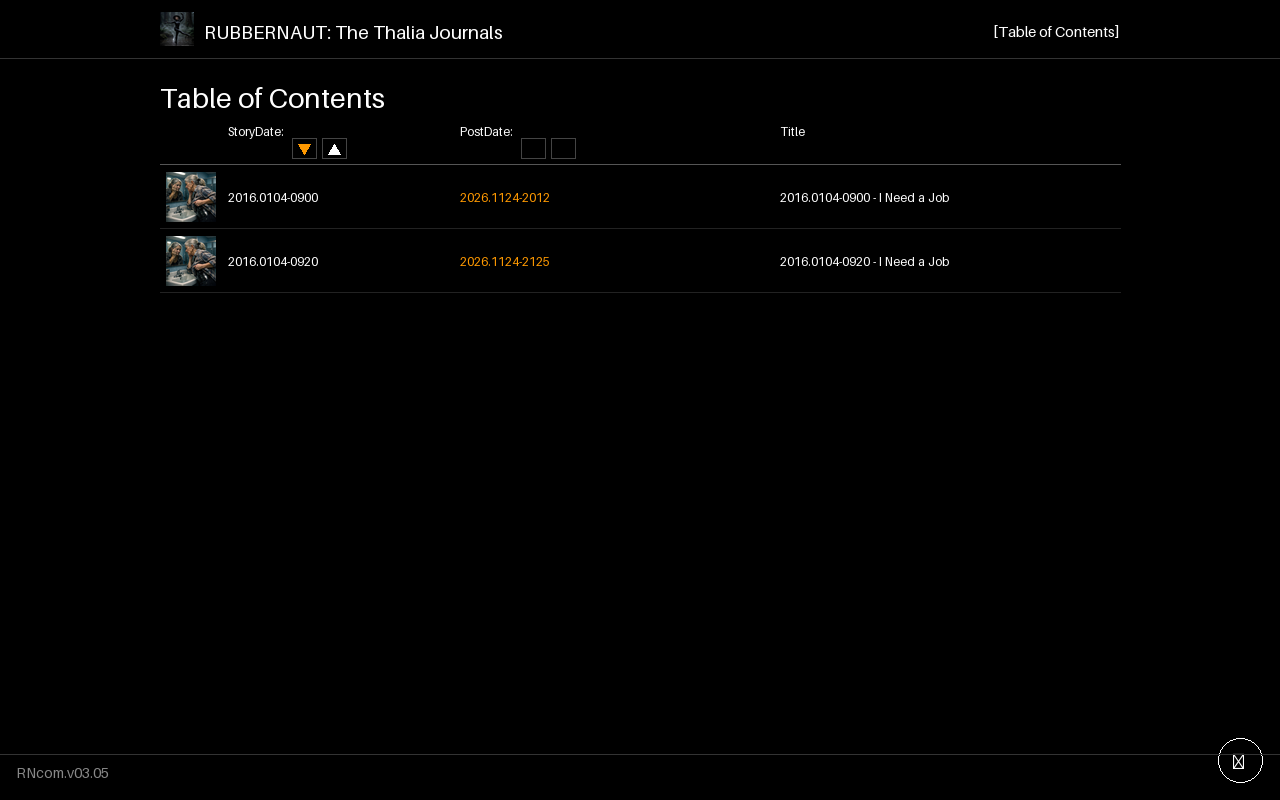
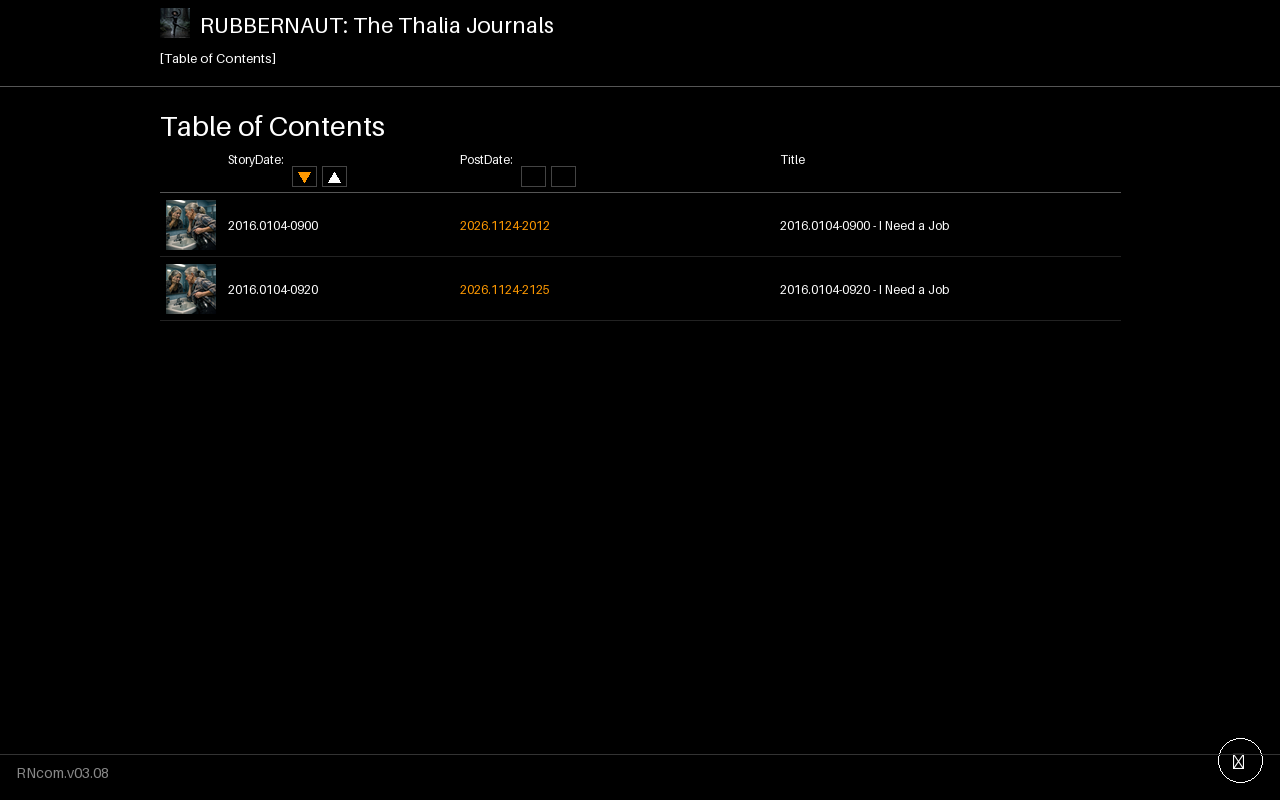
RNcom v03.08: frozen 4-line header (title / nav with Prev-TOC-Next / PostPage title / rule), in-story screen paging in 2-col mode, PostPage terminology
- Header on all non-title pages: line1 large title+logo, line2 small [<- Previous] [Table of Contents] [Next ->] (PostPages only), line3 PostPage storydate+title, line4 rule; all sticky
- 2-column reader mode: fixed-height columns with on-screen <-/-> buttons paging one screen of text; scroll mode forces 1 column
- Keyboard <-/-> still page between PostPages; bottom pager kept on PostPages
- AGENTS.md: 'PostPage' = one story page (terminology rule)

diff --git a/_layouts/post.html b/_layouts/post.html
@@ -2,22 +2,21 @@
 layout: default
 ---
 {% assign jposts = site.journal | sort: "storydate" %}
-{% assign prev_url = "" %}{% assign prev_title = "" %}{% assign prev_sd = "" %}{% assign next_url = "" %}{% assign next_title = "" %}{% assign next_sd = "" %}{% assign seen = false %}
+{% assign prev_url = "" %}{% assign prev_sd = "" %}{% assign next_url = "" %}{% assign next_sd = "" %}{% assign seen = false %}
 {% for p in jposts %}
-  {% if seen %}{% assign next_url = p.url %}{% assign next_title = p.title %}{% assign next_sd = p.storydate %}{% break %}{% endif %}
-  {% if p.storydate == page.storydate %}{% assign seen = true %}{% else %}{% assign prev_url = p.url %}{% assign prev_title = p.title %}{% assign prev_sd = p.storydate %}{% endif %}
+  {% if seen %}{% assign next_url = p.url %}{% assign next_sd = p.storydate %}{% break %}{% endif %}
+  {% if p.storydate == page.storydate %}{% assign seen = true %}{% else %}{% assign prev_url = p.url %}{% assign prev_sd = p.storydate %}{% endif %}
 {% endfor %}
 <article class="post" data-storydate="{{ page.storydate }}">
-  <p class="toclink"><a href="{{ '/toc.html' | relative_url }}">[Table of contents]</a></p>
-  <p class="pager">
-    {% if prev_url != "" %}<a class="prev" href="{{ prev_url | relative_url }}">&larr; Prev {{ prev_sd }}</a>{% else %}<span></span>{% endif %}
-    {% if next_url != "" %}<a class="next" href="{{ next_url | relative_url }}">Next {{ next_sd }} &rarr;</a>{% else %}<span></span>{% endif %}
-  </p>
   <h1>{{ page.storydate }} &ndash; {{ page.title }}</h1>
   <p class="meta">posted {{ page.postdate }} UTC</p>
   {% if page.image %}
   <p class="postimg"><img src="{{ page.image | relative_url }}" alt="{{ page.title }}"/></p>
   {% endif %}
+  <p class="screenpager">
+    <button type="button" id="scr-prev" title="Previous screen of text">&larr;</button>
+    <button type="button" id="scr-next" title="Next screen of text">&rarr;</button>
+  </p>
   <div class="body">{{ content }}</div>
   <p class="pager">
     {% if prev_url != "" %}<a class="prev" href="{{ prev_url | relative_url }}">&larr; Prev {{ prev_sd }}</a>{% else %}<span></span>{% endif %}
@@ -27,7 +26,7 @@ layout: default
 </article>
 <script>
 (function () {
-  // Keyboard paging: left arrow = previous story, right arrow = next story
+  // Keyboard paging between PostPages: left arrow = previous story, right arrow = next story
   var PREV_URL = "{{ prev_url | relative_url }}";
   var NEXT_URL = "{{ next_url | relative_url }}";
   document.addEventListener('keydown', function (e) {
@@ -35,6 +34,15 @@ layout: default
     if (e.key === 'ArrowLeft' && PREV_URL) { location.href = PREV_URL; }
     else if (e.key === 'ArrowRight' && NEXT_URL) { location.href = NEXT_URL; }
   });
+  // Screen paging within a long PostPage in 2-column mode (scrolls one column-screen)
+  var body = document.querySelector('article.post .body');
+  function scr(dir) {
+    if (body) body.scrollBy({ left: dir * body.clientWidth, behavior: 'smooth' });
+  }
+  var sp = document.getElementById('scr-prev');
+  var sn = document.getElementById('scr-next');
+  if (sp) sp.addEventListener('click', function () { scr(-1); });
+  if (sn) sn.addEventListener('click', function () { scr(1); });
   var art = document.querySelector('article.post');
   var sd = art ? art.getAttribute('data-storydate') : '';
   function setCookie(name, value) {

diff --git a/_layouts/default.html b/_layouts/default.html
@@ -1,5 +1,11 @@
 ---
 ---
+{% assign jposts = site.journal | sort: "storydate" %}
+{% assign prev_url = "" %}{% assign prev_sd = "" %}{% assign next_url = "" %}{% assign next_sd = "" %}{% assign seen = false %}
+{% for p in jposts %}
+  {% if seen %}{% assign next_url = p.url %}{% assign next_sd = p.storydate %}{% break %}{% endif %}
+  {% if p.storydate == page.storydate %}{% assign seen = true %}{% else %}{% assign prev_url = p.url %}{% assign prev_sd = p.storydate %}{% endif %}
+{% endfor %}
 <!DOCTYPE html>
 <html lang="en">
 <head>
@@ -12,11 +18,19 @@
 {% unless page.layout == 'title' %}
 <header class="banner">
   <div class="banner-inner">
-    <a class="banner-home" href="{{ '/' | relative_url }}">
-      <img class="banner-logo" src="{{ '/assets/img/logo.webp' | relative_url }}" alt="RUBBERNAUT logo"/>
-      <span class="banner-title">{{ site.title }}</span>
-    </a>
-    <a class="banner-toc" href="{{ '/toc.html' | relative_url }}">[Table of Contents]</a>
+    <div class="hdr-line hdr-title">
+      <a class="banner-home" href="{{ '/' | relative_url }}">
+        <img class="banner-logo" src="{{ '/assets/img/logo.webp' | relative_url }}" alt="RUBBERNAUT logo"/>
+        <span class="banner-title">{{ site.title }}</span>
+      </a>
+    </div>
+    <div class="hdr-line hdr-nav">
+      {% if page.storydate and prev_url != "" %}<a class="prev" href="{{ prev_url | relative_url }}">&larr; Previous</a> &middot; {% endif %}
+      <a class="banner-toc" href="{{ '/toc.html' | relative_url }}">[Table of Contents]</a>
+      {% if page.storydate and next_url != "" %} &middot; <a class="next" href="{{ next_url | relative_url }}">Next &rarr;</a>{% endif %}
+    </div>
+    {% if page.storydate %}<div class="hdr-line hdr-page">{{ page.storydate }} &ndash; {{ page.title }}</div>{% endif %}
+    <hr class="hdr-rule"/>
   </div>
 </header>
 {% endunless %}
@@ -77,7 +91,7 @@
     b.classList.toggle("pager-off", get("pager") === "off");
     b.classList.toggle("width-narrow", get("width") === "narrow");
     b.classList.toggle("width-wide", get("width") === "wide");
-    var btns = document.querySelectorAll("#settings-panel button");
+    var btns = document.querySelectorAll("#settings-panel button[data-set]");
     for (var i = 0; i < btns.length; i++) {
       var k = btns[i].getAttribute("data-set"), v = btns[i].getAttribute("data-val");
       btns[i].classList.toggle("active", get(k) === v);

diff --git a/assets/css/style.css b/assets/css/style.css
@@ -154,9 +154,48 @@ a:hover {
   max-width: 80ch;
   margin: 0 auto;
   padding: 0 1em;
-  display: flex;
-  align-items: center;
-  gap: 0.6em;
+}
+
+/* Frozen 4-line header: 1 big title, 2 small nav, 3 PostPage title, 4 rule */
+.hdr-line {
+  margin: 0;
+}
+
+.hdr-title {
+  font-size: 1.35em;
+  font-weight: bold;
+  margin-top: 0.2em;
+}
+
+.hdr-title .banner-home {
+  gap: 0.5em;
+}
+
+.hdr-title .banner-title {
+  font-size: 1em;
+  letter-spacing: 0.05em;
+}
+
+.hdr-nav {
+  font-size: 0.85em;
+  margin: 0.15em 0;
+}
+
+.hdr-page {
+  font-size: 1.1em;
+  font-weight: bold;
+  margin: 0.1em 0 0.2em;
+}
+
+.hdr-rule {
+  border: 0;
+  border-top: 1px solid #555;
+  margin: 0.3em 0 0;
+  width: 100%;
+}
+
+body.theme-light .hdr-rule {
+  border-top-color: #999;
 }
 
 .banner-home {
@@ -179,9 +218,7 @@ a:hover {
 }
 
 .banner-toc {
-  margin-left: auto;
   font-size: 12pt;
-  white-space: nowrap;
 }
 
 /* Main content */
@@ -395,15 +432,56 @@ article.post .toclink {
   margin: 1em auto;
 }
 
-/* Reader 2-column mode (Settings) */
+/* Reader 2-column mode (Settings): fixed-height columns that page left/right,
+   with on-screen ←/→ buttons (.screenpager) to move one screen of text */
 body.cols-2 article.post .body {
   column-count: 2;
   column-gap: 2em;
+  height: 65vh;
+  overflow-x: auto;
+  overflow-y: hidden;
+}
+
+.screenpager {
+  display: none;
+  margin: 0.4em 0;
+}
+
+.screenpager button {
+  border: 2px solid #666;
+  border-radius: 4px;
+  background: none;
+  color: #fff;
+  font-size: 1.1em;
+  font-weight: bold;
+  padding: 0.2em 0.6em;
+  margin-right: 0.3em;
+  cursor: pointer;
+}
+
+.screenpager button:hover {
+  border-color: #f90;
+  color: #f90;
+}
+
+body.cols-2 .screenpager {
+  display: block;
+}
+
+body.pager-off .screenpager {
+  display: none;
 }
 
 @media (max-width: 700px) {
   body.cols-2 article.post .body {
     column-count: 1;
+    height: auto;
+    overflow-x: visible;
+    overflow-y: visible;
+  }
+
+  body.cols-2 .screenpager {
+    display: none;
   }
 }
 

diff --git a/README.md b/README.md
@@ -25,8 +25,9 @@ custom domain). © 2026 by AtaraxiA — all rights reserved.
   in the reader, Standard (Verdana) or OpenDyslexic font, content width (Narrow 60ch /
   Standard 80ch / Wide 100ch), Prev/Next paging vs scroll only, and a Reset-to-defaults
   button. TOC links are not underlined (underline on hover) and each row's thumbnail
-  opens the page. Reader pages also page with the ← / → keyboard arrow keys. The title
-  page scales its logo to fit the browser window.
+  opens the PostPage. PostPages page between stories with the ← / → keyboard arrow keys,
+  and in 2-column reader mode the on-screen ← / → buttons page one screen of text at a
+  time. The title page scales its logo to fit the browser window.
 
 The TOC is generated from the `_journal/` collection at every site build, so adding,
 renaming, or deleting a page file automatically updates the table on the next build —
@@ -81,5 +82,5 @@ remembers the path in `RNcom_publish_docx.config.txt` next to the script.
 ## Version
 
 The site calls itself **RNcom** and shows its version in the footer of every
-page (`rncom_version` in `_config.yml`, currently `v03.07`). Bump the second number with
+page (`rncom_version` in `_config.yml`, currently `v03.08`). Bump the second number with
 every group of changes, so you can always see at a glance which build is live.

diff --git a/AGENTS.md b/AGENTS.md
@@ -1,5 +1,9 @@
 # AGENTS.md — Working Notes for AI Agents on RubberNaut
 
+**Terminology (user-set @26.1125):** a "PostPage" = one individual story page
+(`/pages/<storydate>.html`). "Web page" = whatever the browser shows. Use
+"PostPage" for stories; remind Jack of this if he slips back to "page of text".
+
 This file is read at the start of every session. Keep it short and durable. Sessions
 can end without warning, so anything the next agent must know should live in this
 file, the README, the git history, or a PR description — never only in chat. Commit
